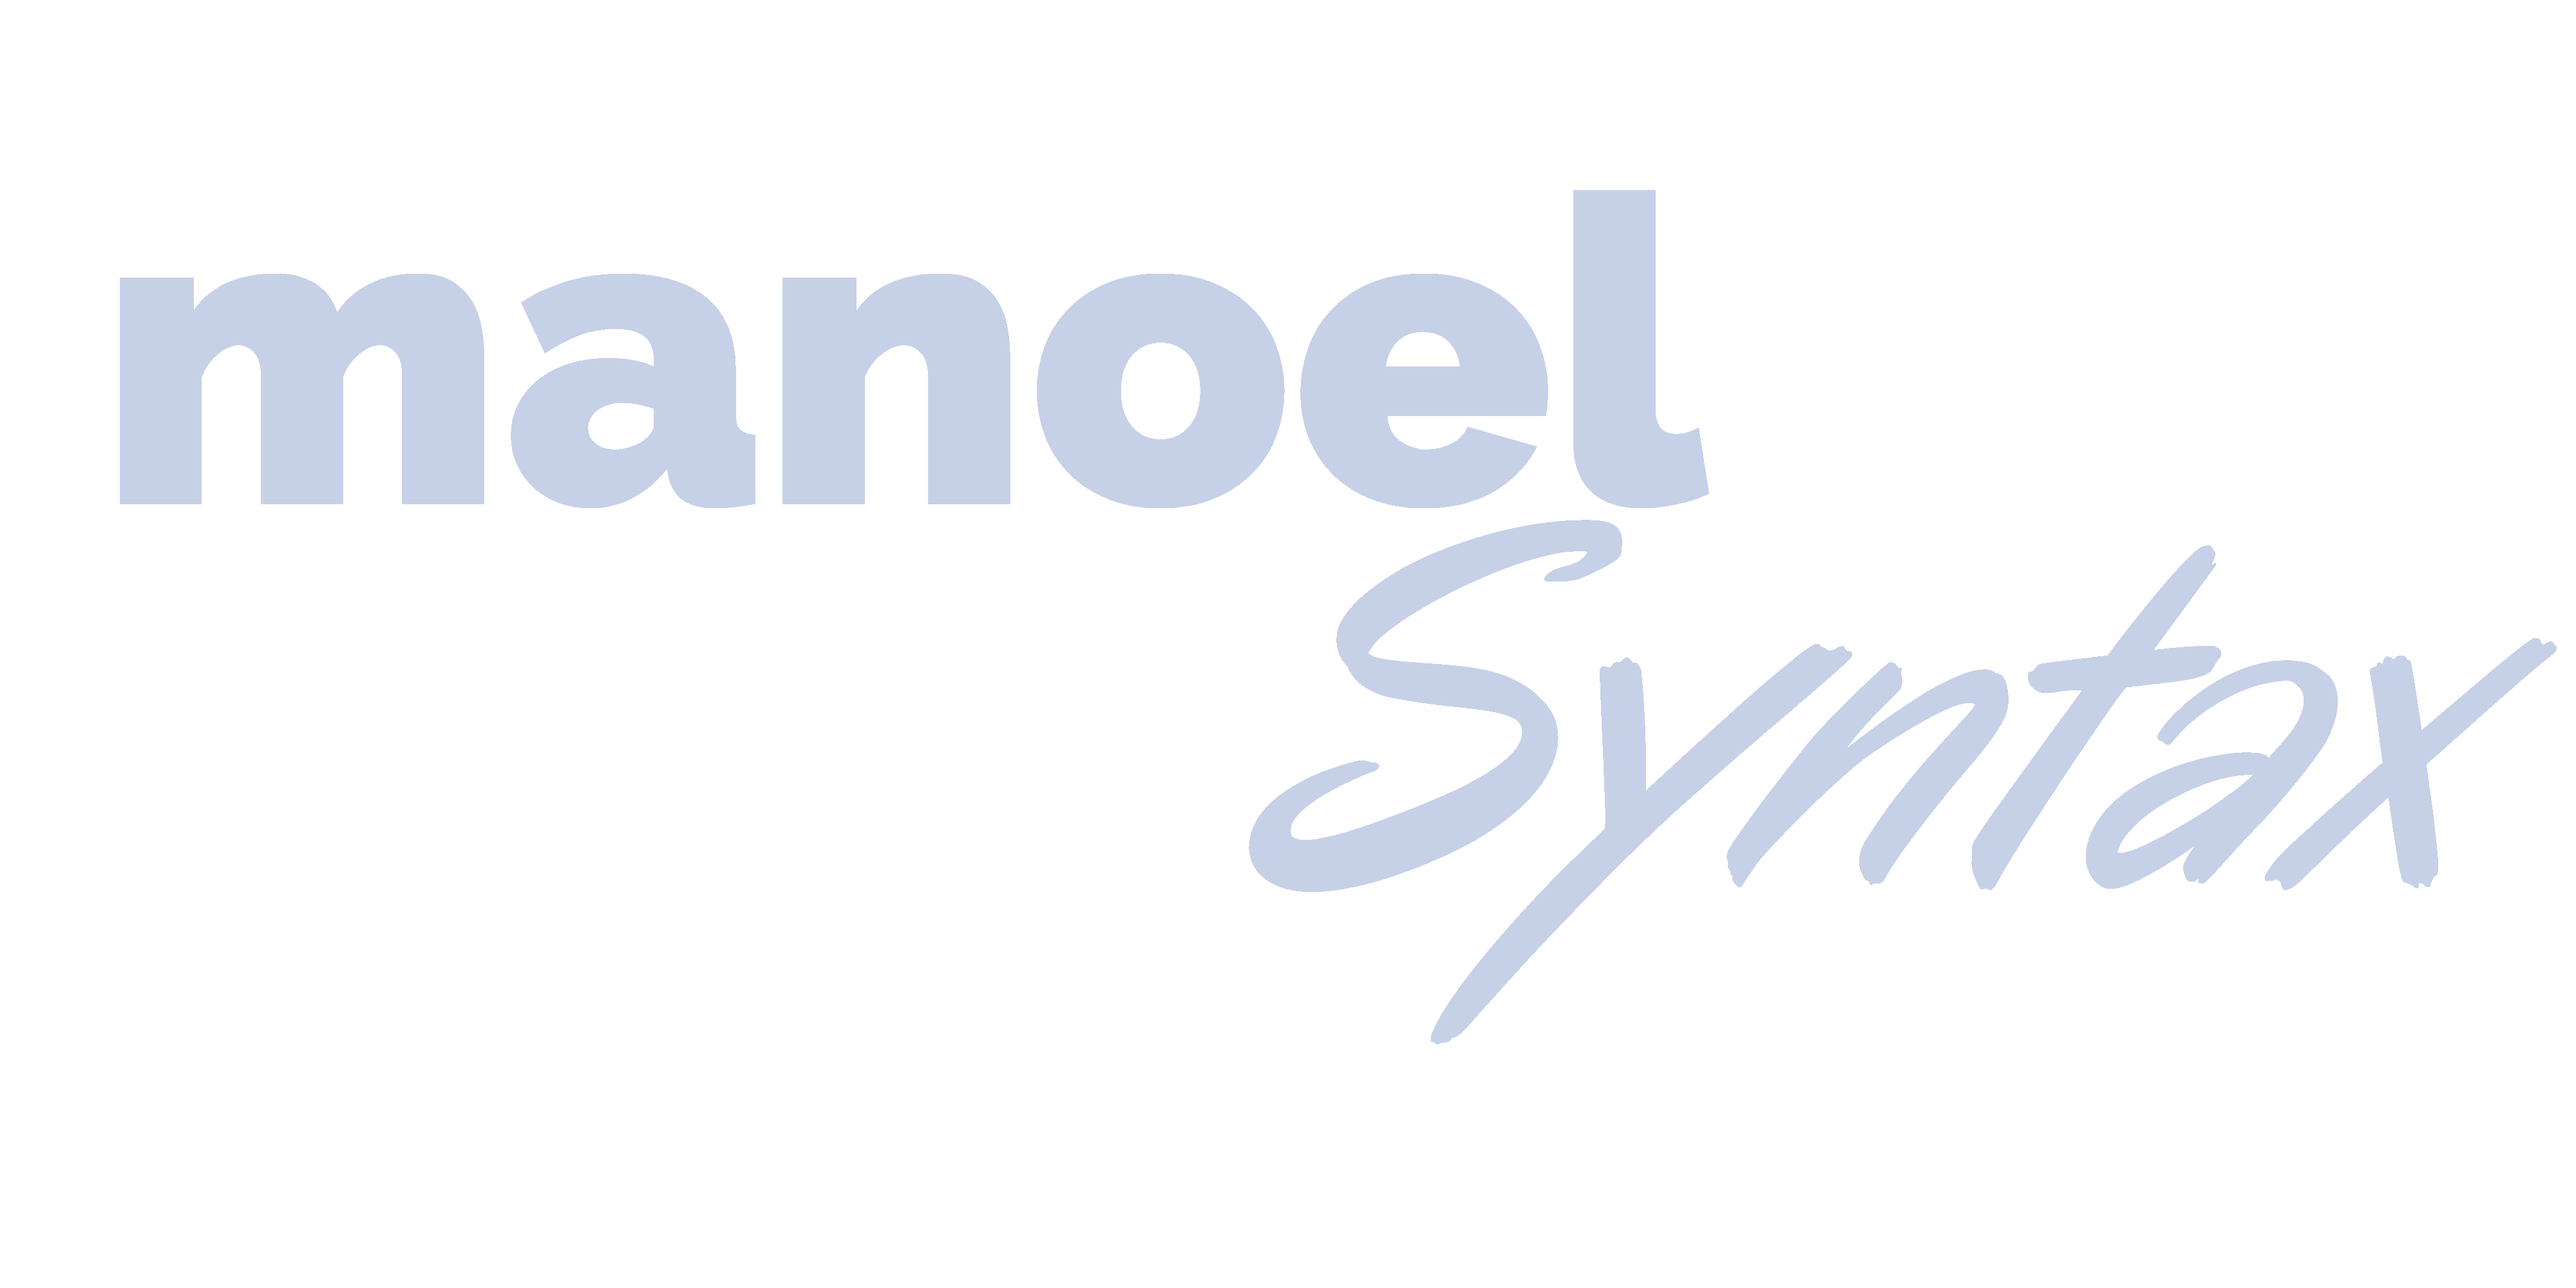
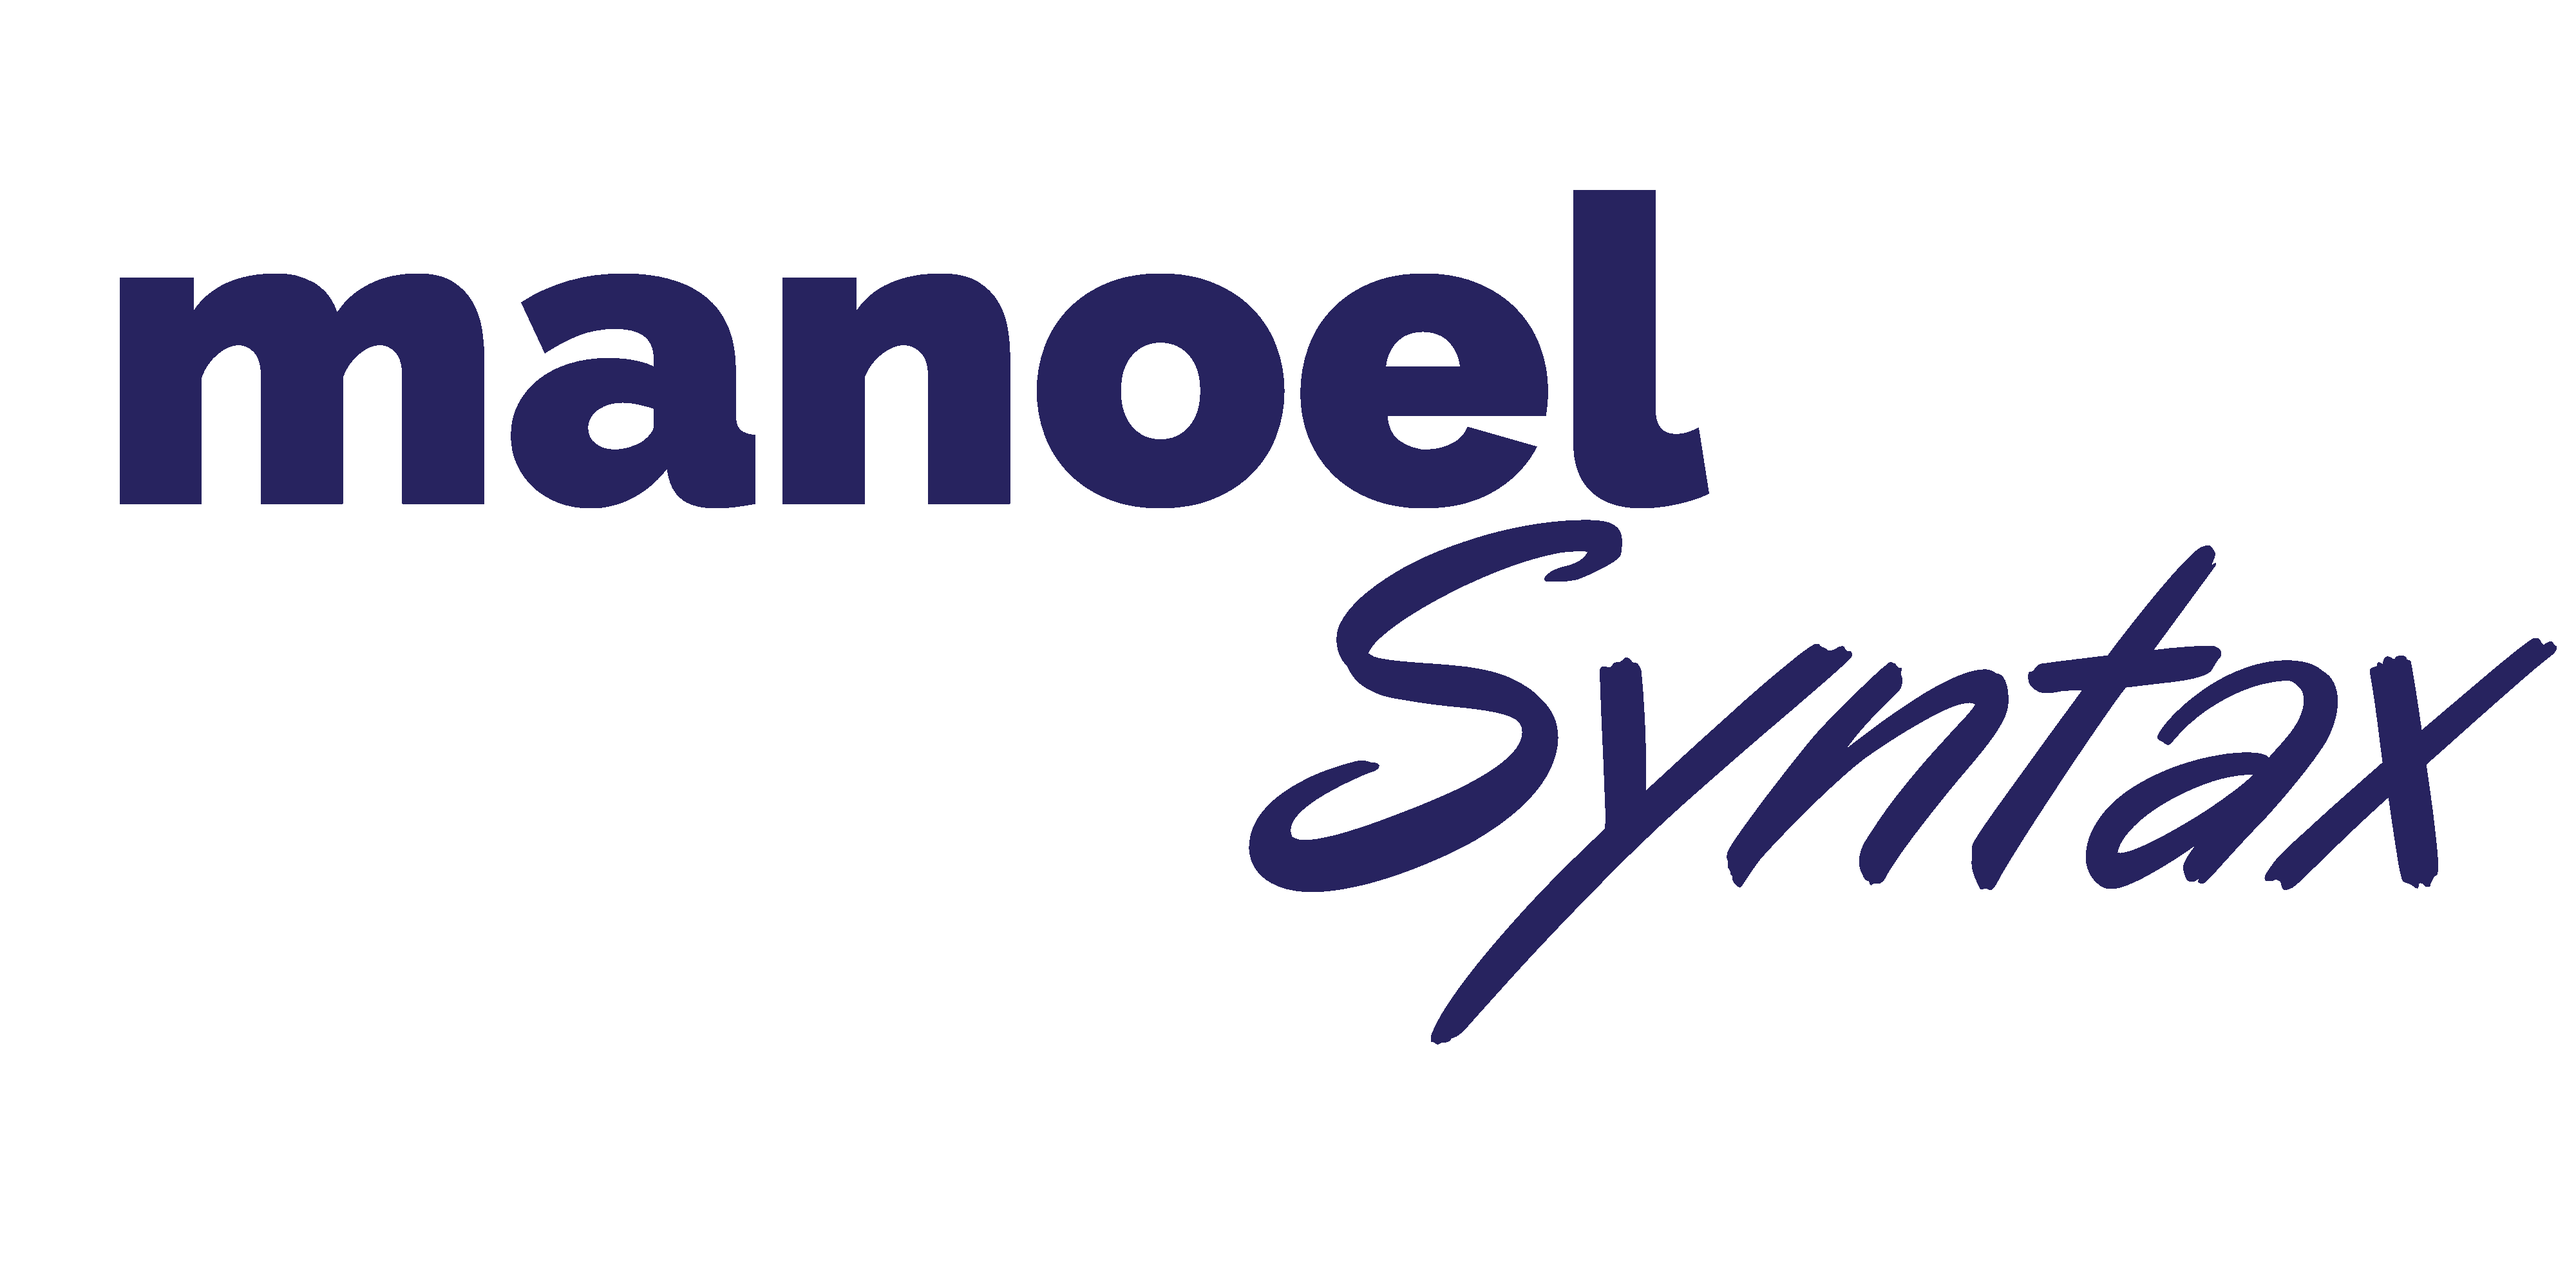
Ajustes na tela de apresentação

Changed region(s): [[0.0312, 0.124, 1.0, 0.806], [0.8438, 0.434, 0.875, 0.465]]

diff --git a/Página Web/versão_web/StylesSheet/styles.css b/Página Web/versão_web/StylesSheet/styles.css
@@ -76,11 +76,46 @@ section.main{
 }
 
 /*centro ou imagem no centro*/
-/*COTAINER FLEX DE REVIEW*/
-#flexContainereview {
+/*alinhamentos de texto no site*/
+.containertexto{
   display: flex;
-  flex-direction: column;
-  }
+  flex-direction: row;
+}
+.containertextodireita{
+  display: flex;
+  justify-content: flex-end;
+}
+.textalignright{
+  margin-left: 50px;
+  max-width: 100vw;
+  width:350px;
+  text-align: right;
+}
+.textalignleft{
+  max-width: 100vw;
+  width:350px;
+  text-align: left;
+}
+/*alinhamentos de texto no site*/
+/*imagem de logo do review*/
+.logoroxa img{
+  align-self: center;
+  max-width: 60%;   /* Máximo da largura da imagem */
+  max-height: 25%;  /* Máximo da altura da imagem */
+  min-height: auto;      /* Mínimo da altura, por padrão “auto” */
+  background-size:100%;
+  background-repeat: no-repeat;
+  opacity: 1.0; /*esta linha é a que clareia a imagem*/
+  cursor: pointer;
+}
+/*imagem de logo do review*/
+/*COTAINER FLEX DE REVIEW*/
+  .flexContainereviewtwo {
+    display: flex;
+    margin-top: 50px;
+    margin-left: 250px;
+    margin-right: 250px;
+    }
 /*COTAINER FLEX DE REVIEW*/
 
   /*FORMULARIO*/
@@ -99,15 +134,10 @@ section.main{
   width: 100%;
   color: #292929;
   font-size: 18px;
-  background-color: #E9E9E9;
-  border: 1px solid #E9E9E9;
-  -moz-border-radius: 5px;
-  -webkit-border-radius: 5px;
-  border-radius: 5px;
+  background-color: #F5F5F5;
+  border: 1px solid #27235F;
   height: 40px;
   margin-bottom: 20px;
-  border-bottom: 1px solid #ccc;
-  border-left: 1px solid #ccc;
   text-indent: 20px;
 }
 
@@ -115,15 +145,10 @@ section.main{
   width: 100%;
   color: #292929;
   font-size: 18px;
-  background-color: #E9E9E9;
-  border: 1px solid #E9E9E9;
-  -moz-border-radius: 5px;
-  -webkit-border-radius: 5px;
-  border-radius: 5px;
+  background-color: #F5F5F5;
+  border: 1px solid #27235F;
   height: 200px;
   margin-bottom: 20px;
-  border-bottom: 1px solid #ccc;
-  border-left: 1px solid #ccc;
   text-indent: 20px;
   padding-top: 16px;
   padding-left: 0;
@@ -134,17 +159,15 @@ section.main{
 .form-contact-button {
   width: 100%;
   font-size: 18px;
-  border-radius: 4px;
-  color: #fff;
+  border-radius: 15px;
+  color: #27235F;
   height: 40px;
   opacity: .8;
-  margin-bottom: 20px;
+  margin-top: 20px;
+  margin-right: 50%;
   cursor: pointer;
-  background: #B22222;
-  display: block;
-  border: none;
-  border-bottom: 1px solid #500707;
-  border-right: 1px solid #500707;
+  background-color: #F5F5F5;
+  border: 1px solid #27235F;
   transition: 1s;
 }
 

diff --git a/Página Web/versão_web/telas/rewiew/rewiew.html b/Página Web/versão_web/telas/rewiew/rewiew.html
@@ -20,10 +20,22 @@
               </div>
         </div>
       </header>
-      <section id="flexContainereview">
-        <div class="logo"><!--logo-->
+      <section id="flexContainereviewtwo">
+        <div class="logoroxa"><!--logo-->
+          <center>
         <img src="../../images/Manoel-Syntax-roxo.png">
+          </center>
         </div>
+        <div class="containertexto">
+        <div class="textalignleft">
+          (pronúncia no AFI: [sí'tasɨ]) (do grego clássico σύνταξις "estrutura", de σύν, transl. syn, "mais", e τάξις, transl. táxis, "classe") é o estudo das regras que regem a construção de frases nas línguas naturais.[1] (pronúncia no AFI: [sí'tasɨ]) (do grego clássico σύνταξις "estrutura", de σύν, transl. syn, "mais", e τάξις, transl. táxis, "classe") é o estudo das regras que regem a construção de frases nas línguas naturais.[1] (pronúncia no AFI: [sí'tasɨ]) (do grego clássico σύνταξις "estrutura", de σύν, transl. syn, "mais", e τάξις, transl. táxis, "classe") é o estudo das regras que regem a construção de frases nas línguas naturais.[1] 
+        </div>
+      </div>
+      <div class="containertextodireita">
+        <div class="textalignright">
+          (pronúncia no AFI: [sí'tasɨ]) (do grego clássico σύνταξις "estrutura", de σύν, transl. syn, "mais", e τάξις, transl. táxis, "classe") é o estudo das regras que regem a construção de frases nas línguas naturais.[1] (pronúncia no AFI: [sí'tasɨ]) (do grego clássico σύνταξις "estrutura", de σύν, transl. syn, "mais", e τάξις, transl. táxis, "classe") é o estudo das regras que regem a construção de frases nas línguas naturais.[1] (pronúncia no AFI: [sí'tasɨ]) (do grego clássico σύνταξις "estrutura", de σύν, transl. syn, "mais", e τάξις, transl. táxis, "classe") é o estudo das regras que regem a construção de frases nas línguas naturais.[1] 
+        </div>
+      </div>
         <div class="formcontainer">
           <form action="#" class="form-contact" method="post" tabindex="1">
             <input type="text" class="form-contact-input" name="nome" placeholder="Nome" required />

diff --git a/Página Web/versão_web/index.html b/Página Web/versão_web/index.html
@@ -15,7 +15,9 @@
           <input class="input"id="review" type="button" onclick ="window.location.href ='telas/rewiew/rewiew.html'">
             <div class="logo"><!--logo-->
               <label for="review">
+                <center>
               <img src="images/Manoel-Syntax.png">
+                </center>
             </label>
             </div>
       </div>
